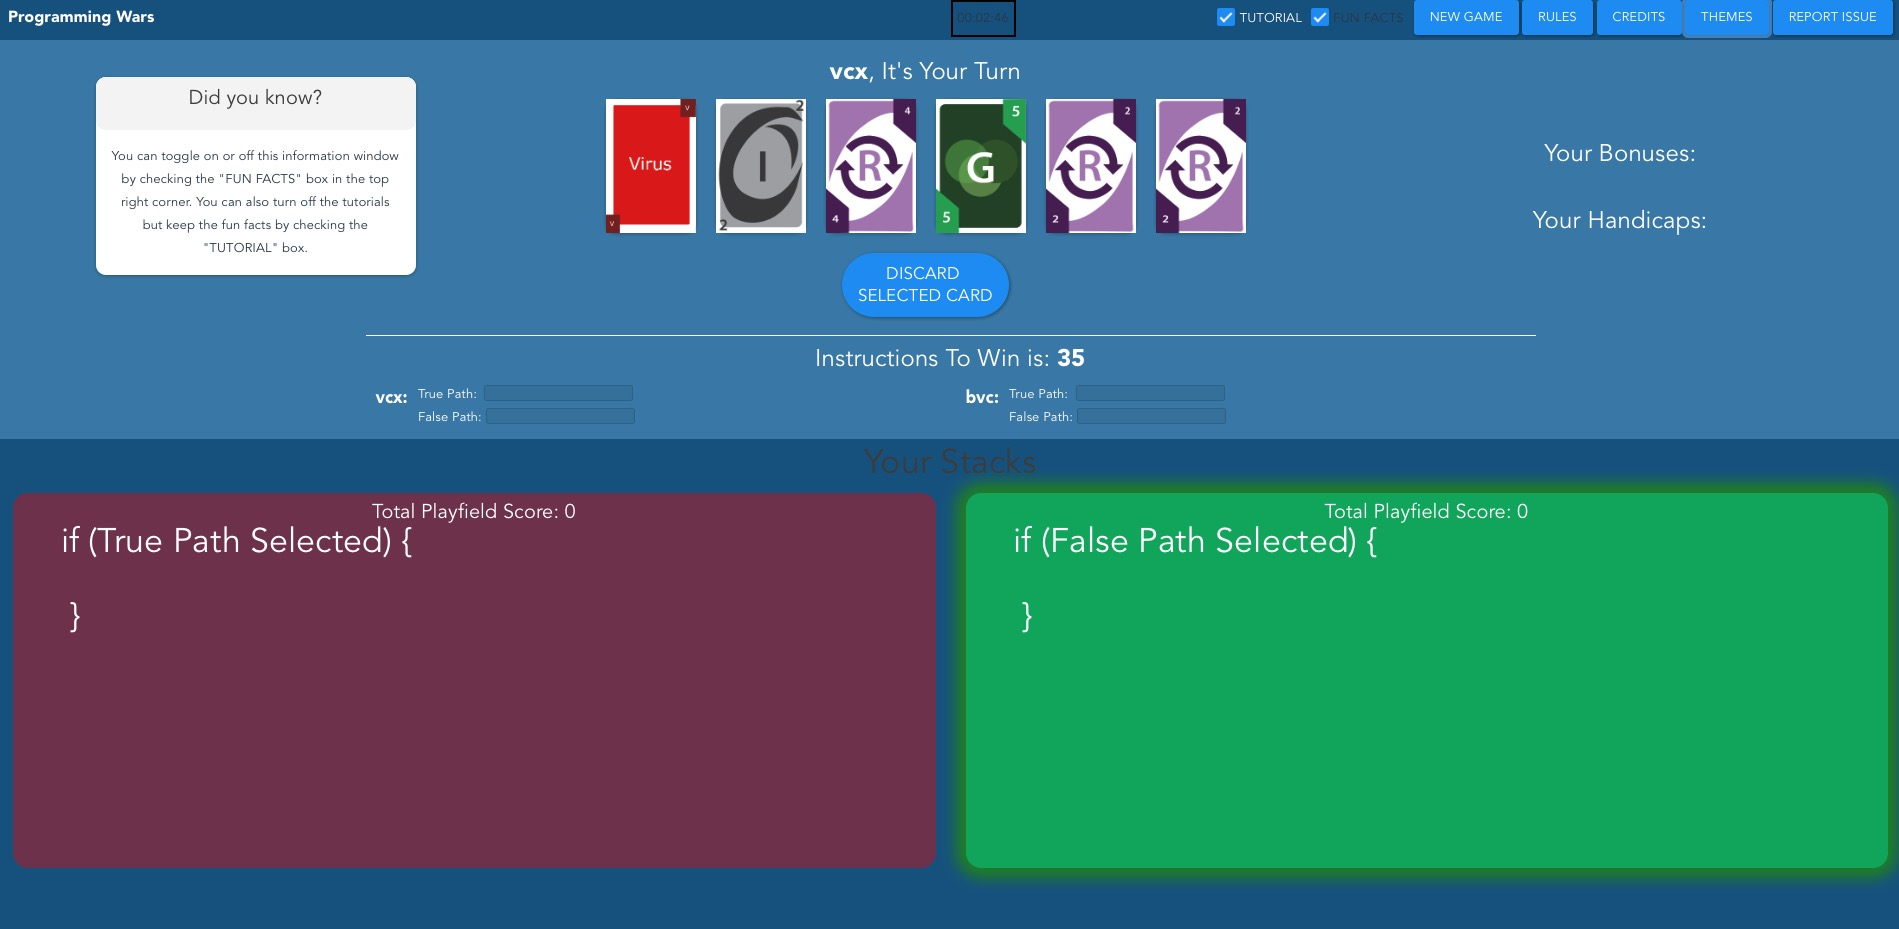
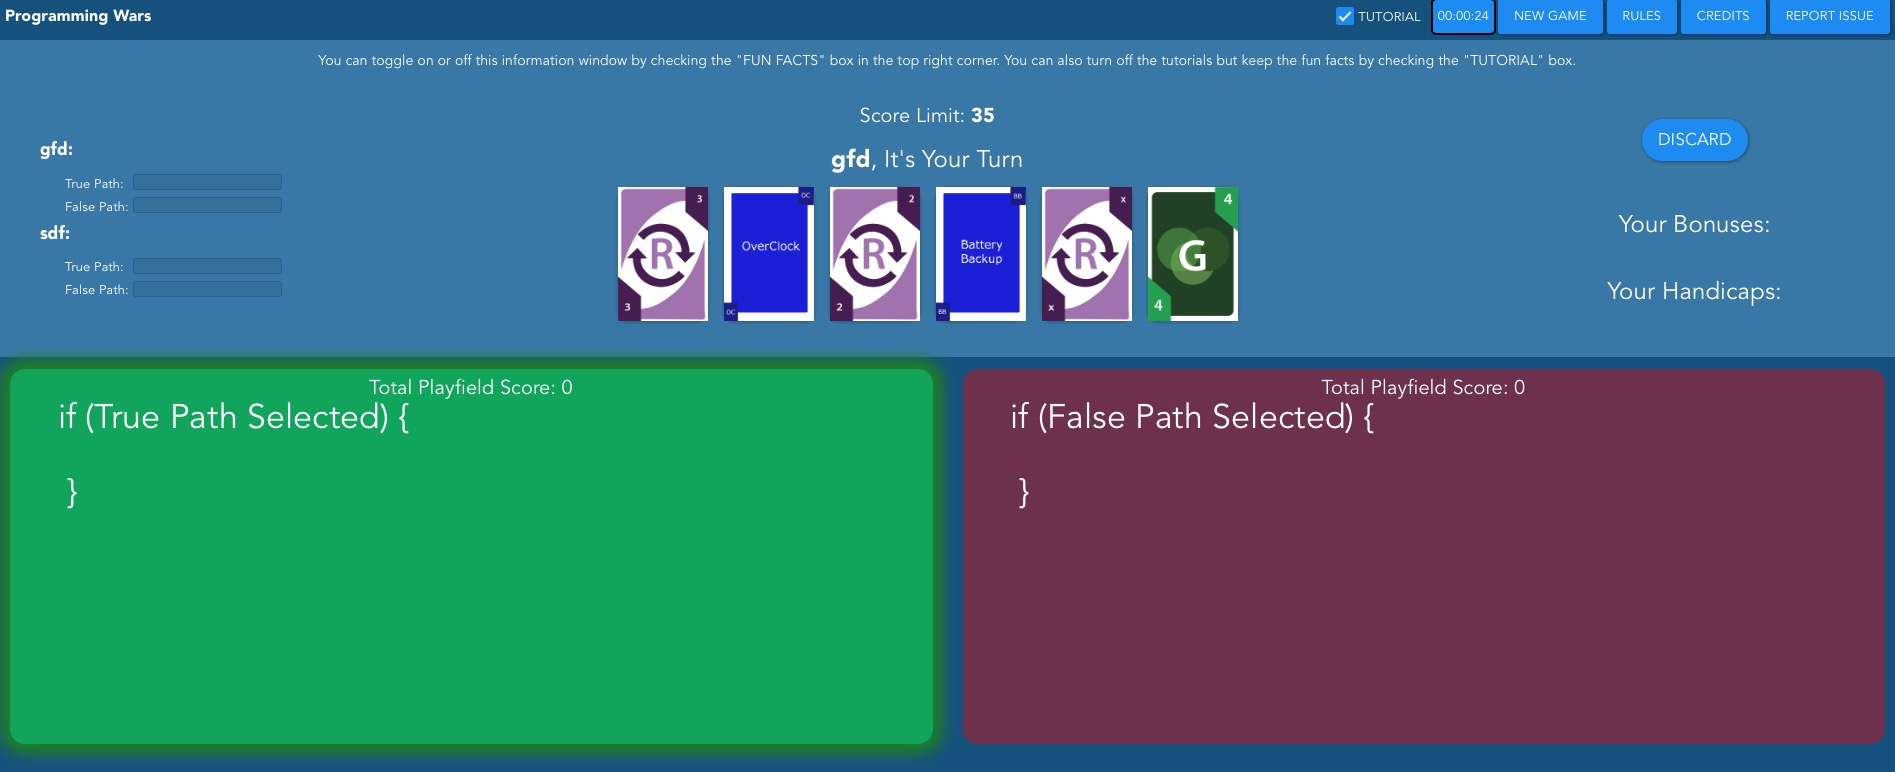
Themes (#408)
* Added user-selectable themes

diff --git a/src/components/Tutorial/TutorialPlayerInfoPanel.vue b/src/components/Tutorial/TutorialPlayerInfoPanel.vue
@@ -1,5 +1,5 @@
 <template xmlns="http://www.w3.org/1999/html">
-  <div id="player-info-panel">
+  <div id="player-info-panel" :style="pIPBackgroundColour()">
     <div id="flexcontainer">
       <div id="tipBox" class="container" :style="displayStyle" :cardClicked="tipsCardSelected">
         <div class="panel panel-default" style="border-radius: 10px;">
@@ -14,7 +14,7 @@
           <div id="cards">
 
             <ul id="example-1">
-              <h4 class="modal-title"><b>{{ currentPlayerName() }}</b>, It's Your Turn</h4>
+              <h4 class="modal-title" :style="pIPTextColour()"><b>{{ currentPlayerName() }}</b>, It's Your Turn</h4>
               <li v-for="(card,index) in hand" :id="card.type + card.value + index + currentPlayerName()" style="margin-top: 5px">
                 <card :cardData="card" v-on:cardClicked="cardClicked" @setActiveCard="setActiveCard"></card>
               </li>
@@ -35,13 +35,13 @@
     <div class="container" style="border-top: 1px solid white; padding: 10px; width: 600px">
       <div class="row">
         <div class="col-md-12">
-          <h4>Instructions To Win is: <b>{{ getScoreLimit() }}</b></h4>
+          <h4 :style="pIPTextColour()">Instructions To Win is: <b>{{ getScoreLimit() }}</b></h4>
         </div>
       </div>
       <div class="row">
         <div :class="colSize" v-for="player in players" style="text-align: left;">
-          <div style="float: left; margin-right: 10px;"><h4><b><a @click="openModal" style="cursor: pointer; color: rgba(10,1,1,0.79); font-size: 17px">{{ player.name }}:</a></b></h4></div>
-          <div>
+          <div style="float: left; margin-right: 10px;"><h4><b><a @click="openModal" style="cursor: pointer; color: rgba(10,1,1,0.79); font-size: 17px" :style="pIPTextColour()">{{ player.name }}:</a></b></h4></div>
+          <div :style="pIPTextColour()">
             True Path:&nbsp;
             <meter :max="getScoreLimit()" min=0
                    :value="getScore(player.id).trueScore"
@@ -194,7 +194,9 @@ import Card from '../SharedComponents/Card'
       ...mapState([
         'isDiscard',
         'aiTurn',
-        'activeCard'
+        'activeCard',
+        'pIPBackgroundColour',
+        'pIPTextColour'
       ]),
       getScore (player) {
         let trueSide = 0

diff --git a/src/components/SharedComponents/SettingsComponent.vue b/src/components/SharedComponents/SettingsComponent.vue
@@ -1,5 +1,6 @@
 <template>
   <div id="settingsPage">
+    <themes-modal id="themesModal" class="modal fade themes" tabindex="-1" role="dialog" aria-labelledby="" aria-hidden="true"></themes-modal>
     <rules-modal id="rulesModal" class="modal fade rules" tabindex="-1" role="dialog" aria-labelledby="" aria-hidden="true" style="background-color: yellowgreen"></rules-modal>
     <credits-modal id="creditsModal" class="modal fade credits" tabindex="-1" role="dialog" aria-labelledby="" aria-hidden="true" style="background-color: mediumpurple"></credits-modal>
     <div class="header" :style="mainBackgroundColour()">
@@ -7,6 +8,7 @@
         <h4 :style="mainTextColour()"><b>Programming Wars</b></h4>
       </div>
       <div class="headerBtn">
+        <button class="btn btn-primary" data-toggle="modal" data-target=".themes">Themes</button>
         <button class="btn btn-primary headerBtn" data-toggle="modal" data-target=".rules">Rules</button>
         <button class="btn btn-primary headerBtn" data-toggle="modal" data-target=".credits">Credits</button>
         <a class="btn btn-primary" href="https://gitreports.com/issue/johnanvik/program-wars" target="_blank">Report Issue</a>
@@ -70,6 +72,8 @@
   import RulesModal from '../Modals/RulesModal.vue'
   import CreditsModal from '../Modals/CreditsModal.vue'
   import TutorialModal from '../Modals/TutorialStartModal'
+
+  import Themes from '../Modals/ThemesModal'
 
   import {mapGetters, mapMutations, mapState} from 'vuex'
 
@@ -220,7 +224,8 @@
       'opponent-stacks': OpponentStacks,
       'rules-modal': RulesModal,
       'credits-modal': CreditsModal,
-      'tutorial-modal': TutorialModal
+      'tutorial-modal': TutorialModal,
+      'themes-modal': Themes
     },
     beforeMount () {
       this.$store.commit('resetState')

diff --git a/src/components/MainGame/PlayerInfoPanel.vue b/src/components/MainGame/PlayerInfoPanel.vue
@@ -1,7 +1,7 @@
 <template>
     <div id="player-info-panel" :style="pIPBackgroundColour()">
       <div id="tipContainer" v-if="getTips().tutorial">
-        <div id="tipBox" class="container" :cardClicked="tipsCardSelected" style="font-size: 14px;">
+        <div id="tipBox" class="container" :cardClicked="tipsCardSelected" style="font-size: 14px;" :style="pIPTextColour()">
           {{ tipsInfoText }}
         </div>
       </div>
@@ -10,9 +10,9 @@
       <div id="flexcontainer">
         <div class="container" style="width: 300px; margin-right: 20px; margin-left: 10px; align-items: center; -webkit-align-items: center">
         <div v-for="player in players" style="text-align: left; display: inline">
-          <div style="float: left; margin-right: 10px;"><h4 :style="pIPTextColour()"><b><a @click="openModal" style="cursor: pointer; color: rgba(10,1,1,0.79); font-size: 17px; -webkit-align-items: center ">{{ player.name }}:</a></b></h4></div>
-            <div class="row" style="width: 300px; height: auto; -webkit-align-items: center; margin-right: 0px; margin-left: 25px">
-              <div class="row" :style="pIPTextColour()"></div>
+          <div style="float: left; margin-right: 10px;"><h4><b><a @click="openModal" style="cursor: pointer; color: rgba(10,1,1,0.79); font-size: 17px; -webkit-align-items: center " :style="pIPTextColour()">{{ player.name }}:</a></b></h4></div>
+            <div class="row" style="width: 300px; height: auto; -webkit-align-items: center; margin-right: 0px; margin-left: 25px" :style="pIPTextColour()">
+              <div class="row"></div>
               True Path:&nbsp;&thinsp;
               <meter :max="getScoreLimit()" min=0
                      :value="getScore(player.id).trueScore"

diff --git a/src/components/Tutorial/TutorialComponent.vue b/src/components/Tutorial/TutorialComponent.vue
@@ -32,8 +32,8 @@
       <hack-discard v-if="showMsg"></hack-discard>
     </transition>
 
-    <div id="header">
-      <p>Programming Wars Tutorial</p>
+    <div id="header" :style="mainBackgroundColour()">
+      <p :style="mainTextColour()">Programming Wars Tutorial</p>
       <div style="margin-left: auto; padding: 0 5px 0 0">
         <timer class="timer"></timer>
       </div>
@@ -48,9 +48,8 @@
     <div id="playerinfopanel" :style="deactivateClick">
       <player-info-panel></player-info-panel>
     </div>
-    <div id="flexcontainer">
+    <div id="flexcontainer" :style="mainBackgroundColour()">
       <div id="player-stacks">
-        <h3>Your Stacks</h3>
         <div id="stacks" class="container" style="width: inherit;">
           <div class="row">
             <div class="col-md-6 col-sm-6">
@@ -63,6 +62,7 @@
         </div>
       </div>
     </div>
+    <div style="height: 300px; width: 100%;" :style="mainBackgroundColour()"></div>
   </div>
 </template>
 
@@ -184,7 +184,9 @@ export default {
         'playerTurn',
         'pointerEvent',
         'currentGameState',
-        'timerInterval'
+        'timerInterval',
+        'mainBackgroundColour',
+        'mainTextColour'
       ]),
       initGame () {
         this.initTutorialDeck()

diff --git a/src/components/MainGame/MainComponent.vue b/src/components/MainGame/MainComponent.vue
@@ -36,7 +36,7 @@
     <div id="header" :style="mainBackgroundColour()">
       <p :style="mainTextColour()">Programming Wars</p>
       <div style="margin-left: auto; padding: 0 10px 0 0">
-      <label class="checkbox-inline"><input type="checkbox" value="true" v-model="tipsToggle" checked>TUTORIAL</label>
+      <label class="checkbox-inline" :style="mainTextColour()"><input type="checkbox" value="true" v-model="tipsToggle" checked>TUTORIAL</label>
         </div>
         <timer class="timer" ></timer>
         <div id="header-buttons">
@@ -64,7 +64,7 @@
         </div>
       </div>
     </div>
-    <div style="height: 200px; width: 100%;" :style="mainBackgroundColour()"></div>
+    <div style="height: 300px; width: 100%;" :style="mainBackgroundColour()"></div>
   </div>
 </template>
 

diff --git a/src/components/Modals/ThemesModal.vue b/src/components/Modals/ThemesModal.vue
@@ -17,7 +17,7 @@
               </div>
           </div>
             <div class="row">
-              <img :src="getSrc()" alt="ThemePick" style="width: 50%; height: 45%">
+              <img :src="getSrc()" alt="ThemePick" style="width: 50%; height: 45%; margin-top: 13px;">
             </div>
         </div>
         <div class="modal-footer">
@@ -107,6 +107,13 @@
 
   #gamePlay, #cardPlaying {
     font-size: medium;
+  }
+
+  select {
+    background-color: whitesmoke;
+    -webkit-box-shadow: 1px 1px 1px 1px darkgray;
+    -moz-box-shadow: 1px 1px 1px 1px darkgray;
+    box-shadow: 1px 1px 1px 1px darkgray;
   }
 
 </style>
